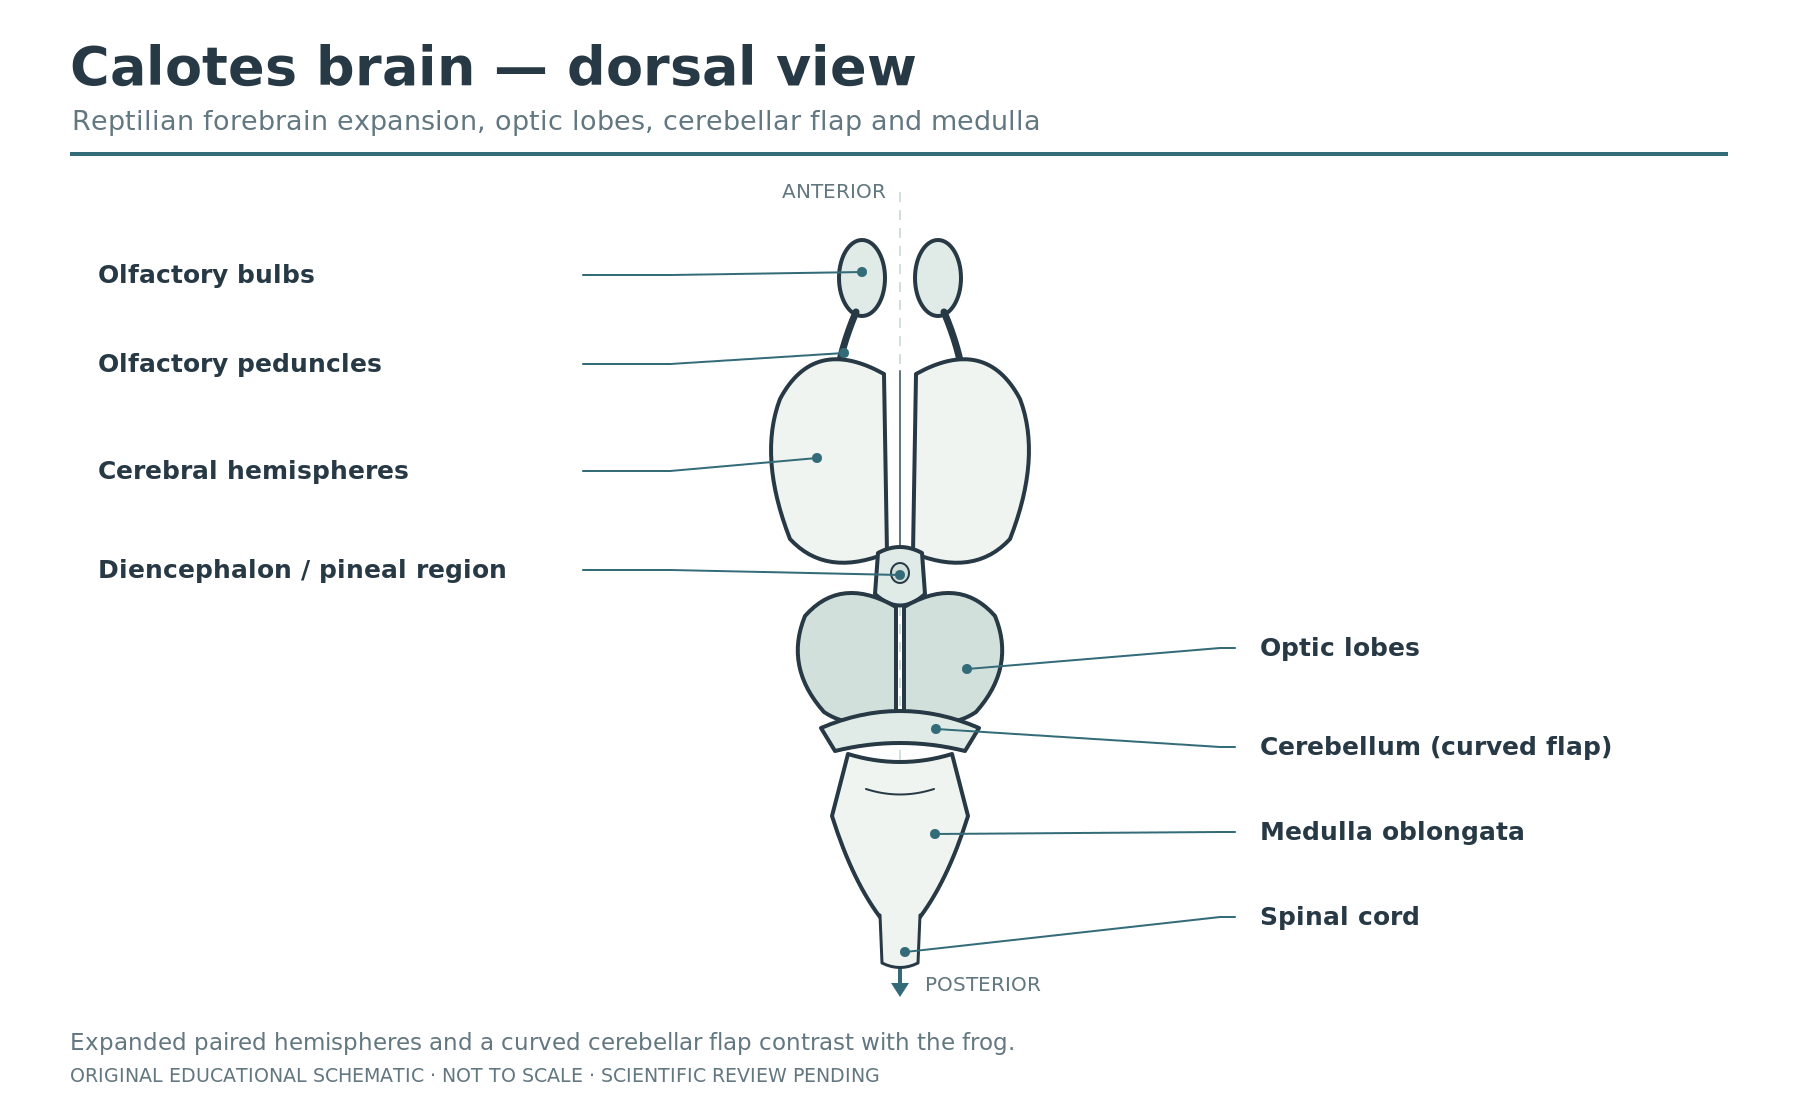
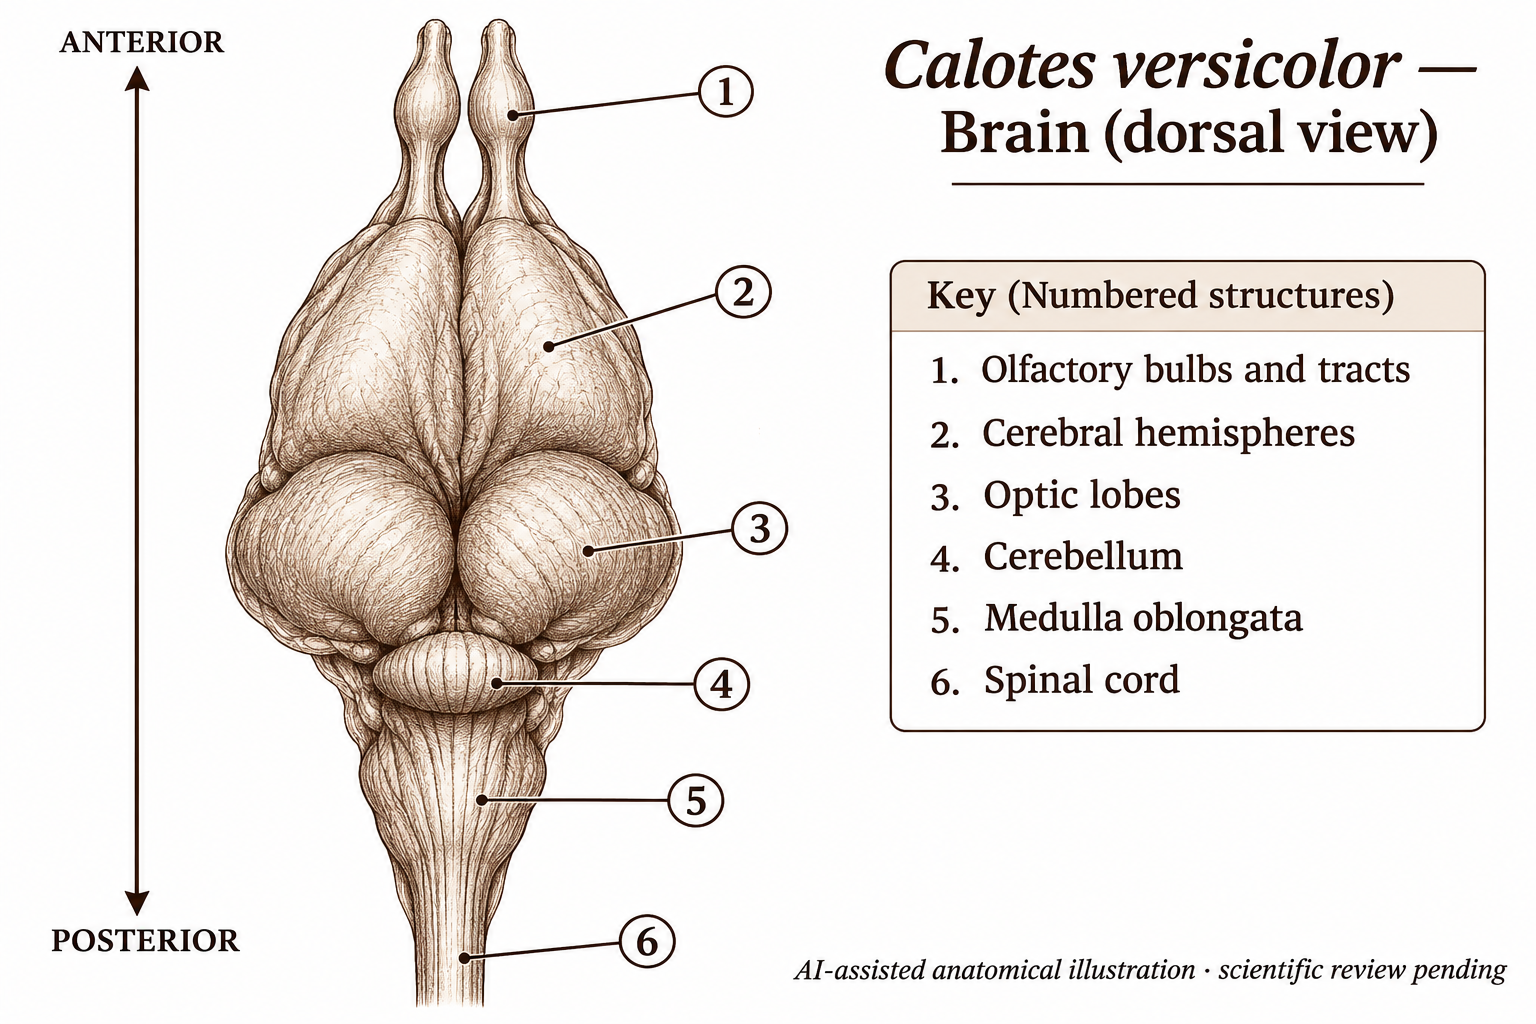
assets(qa): integrate generated Calotes brain PNG with provenance and review reset

diff --git a/scripts/audit_figure_placement.py b/scripts/audit_figure_placement.py
@@ -327,6 +327,24 @@ def main():
                 and figure.get("reviewStatus") == "PROVISIONAL_QA_ANATOMICAL_AND_TAMIL_REVIEW_PENDING",
                 "Calotes historical source print taxon, original hash and PNG rights/provenance fail"
             )
+        # The generated Calotes brain remains an original AI image, not a
+        # published or independently validated species-specific atlas plate.
+        if figure["diagramId"] == "u4-calotes-brain":
+            require(
+                figure["lang"] == "en"
+                and figure.get("sourceKind") == "AI_GENERATED_ORIGINAL_QA_CANDIDATE"
[1 lines of base64/hex data omitted]
+                and figure.get("size") == 1941016
+                and figure.get("installedFormat") == "PNG"
+                and figure.get("author", "").startswith("OpenAI ChatGPT image generation")
+                and figure.get("sourceUrl", "") == ""
+                and not figure.get("svgMaster")
+                and not figure.get("svgSha256")
+                and figure.get("visualReview") == "AI_GENERATED_CANDIDATE_PENDING_EXPERT_SCIENTIFIC_REVIEW"
+                and figure.get("reviewStatus") == "PROVISIONAL_QA_ANATOMICAL_AND_TAMIL_REVIEW_PENDING"
+                and "NOT verified" in figure.get("keyEn", ""),
+                "Calotes AI PNG provenance, immutable SHA or pending approval status missing"
+            )
         if (figure["diagramId"] == "u2-scoliodon-brain-labelled"
                 and figure.get("visualReview") == "REPLACED_VISUAL_QA_PENDING"):
             require(

diff --git a/docs/CHORDATA_CALOTES_BRAIN_AI_QA.md b/docs/CHORDATA_CALOTES_BRAIN_AI_QA.md
@@ -1,0 +1,15 @@
+# CHORDATA — AI-assisted Calotes brain PNG intake (continuous QA)
+
+- **Lesson**: Unit IV, `u4-calotes`, page 5, section `brain`.
+- **Diagram ID**: `u4-calotes-brain`.
+- **Installed filename**: `app/src/main/assets/pencil_plates/calotes_brain_dorsal_en.png`.
+- **Creator**: OpenAI ChatGPT image generation (original AI-assisted candidate). **Not a historical scan, credited textbook drawing, or verified dissection atlas**.
[1 lines of base64/hex data omitted]
+- **Modification policy**: Original rendered pixels retained without resizing, cropping or tracing. A previous vector-based provisional diagram was replaced in the lesson's existing asset path.
+- **Numbered key**: 1 olfactory bulbs/tracts; 2 cerebral hemispheres; 3 optic lobes; 4 cerebellum; 5 medulla oblongata; 6 spinal cord.
+- **Source policy**: This image has no external source artwork. The reference links in the manifest are biological comparison resources, not image owners or evidence of AI figure validity.
+- **Image format / UI**: PNG on the existing native Kotlin FigureGallery route. English artwork labels retained in English and Tamil reading modes; Tamil caption/key held separately.
+- **Review**: scientifically **PENDING**, Tamil wording **PENDING**, physical-device testing **PENDING**. The cerebellum/optic-lobe relative proportions and Calotes-specific morphology must be checked against published comparative anatomy and by a Zoology expert.
+- **Release**: production HOLD; the image is a review candidate only. No acceptance may be inferred from static byte integrity, emulator runs or GitHub Actions success.
+
+Reviewer record: `docs/FIGURE_REVIEW_REGISTER_64.csv`, row 37. The image checksum change explicitly resets independent scientific/Tamil decisions to PENDING.
